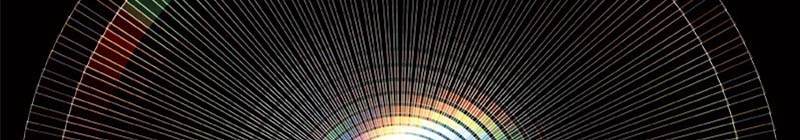
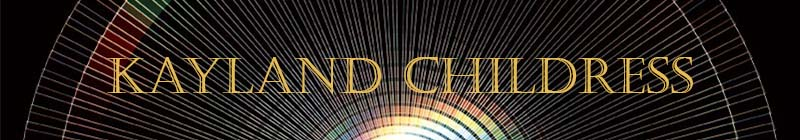
Pre-Assessment Submission

Changed region(s): [[0.125, 0.4, 0.875, 0.6857]]

diff --git a/pre-assessment/index.html b/pre-assessment/index.html
@@ -14,7 +14,7 @@
     <!--A description of the page-->
     <title>IFSC 3342 Pre-Assessment | Kayland Childress</title>
 
-    <link rel="stylesheet" type="text/css" href="assets/css/screen.css" />
+    <link rel="stylesheet" media="all" href="assets/css/screen.css" />
   </head>
   <body>
     <div id="container">
@@ -23,17 +23,31 @@
       </div>
       <div id="nav">
         <ul>
-          <li><a href="http://ualr.edu">UALR</a></li>
           <li>
-            <a href="https://thomaswallace.net/course/mobile-web/spring-2018/"
+            <a href="http://ualr.edu" title="Link to UALR website.">UALR</a>
+          </li>
+          <li>
+            <a
+              href="https://thomaswallace.net/course/mobile-web/spring-2018/"
+              title="Link to course homepage."
               >Course Homepage</a
             >
           </li>
-          <li><a href="http://www.w3.org/">W3C</a></li>
+          <li>
+            <a href="http://www.w3.org/" title="Link to W3C website.">W3C</a>
+          </li>
+          <li>
+            <a
+              href="https://kayland-childress.github.io/Portfolio/"
+              title="Kayland's Portfolio"
+              >Portfolio</a
+            >
+          </li>
         </ul>
       </div>
       <div id="content">
         <h2>My Assessment</h2>
+        <!--Hello Thomas!-->
         <p>
           The most important goal of effective communication is clarity. Clarity
           is not the same as simplicity . Often, simple things are clear if the
@@ -41,7 +55,7 @@
           about a complex relationship that can only be presented with a
           necessarily large amount of data.
         </p>
-        <p>
+        <p class="alert">
           This complexity can be made to appear clear by effective organization
           and presentation and need not be reduced to meaningless "bite-sized"
           chunks of data, as simplification usually does.
@@ -53,6 +67,14 @@
           rather than the illumination of it.
         </p>
         <h3>Questions</h3>
+
+        <p>
+          <img
+            class="xx"
+            alt="The Most Interesting Man in the World"
+            src="assets/img/content-image2.jpg"
+          />
+        </p>
         <p>
           Please answer the following questions below. Remember to markup the
           information properly using HTML
@@ -61,21 +83,44 @@
           Explain the difference between the &quot;alt&quot; attribute and the
           &quot;title&quot; attribute.
         </h4>
-        <p>Answer goes here...</p>
+        <dl>
+          <dt>Alt Attribute:</dt>
+          <dd>
+            The alt attribute is added when images are being displayed on a
+            webpage. This displays a short discription of the image incase the
+            image does not load on the site.
+          </dd>
+          <dt>Title Attribute:</dt>
+          <dd>
+            The title attribute adds a short discription to the viewer when
+            hovering over a hyperlink. This gives them a better idea of where
+            the link will take them if they click on it.
+          </dd>
+        </dl>
         <h4>
           Please provide an example below of how to mark up a definition from
           the dictionary
         </h4>
-        <p>Answer goes here...</p>
+        <dl>
+          <dt>Definition Term</dt>
+          <dd>Blah blah blah blah.</dd>
+        </dl>
         <h4>
-          Provide an example of link pointing to your favorite site &amp; create
-          a style rule to change the background color of the link when the user
-          hovers over it.
+          Provide an example of a link pointing to your favorite site &amp;
+          create a style rule to change the background color of the link when
+          the user hovers over it.
         </h4>
-        <p>Answer goes here...</p>
+        <p>
+          If you are looking for super cute clothes for the low low, check out
+          my favorite website <a href="us.shein.com" id="shein">Shein</a>.
+        </p>
       </div>
       <div id="footer">
-        <h6>Footer</h6>
+        <h6>
+          &copy; 2024 | Kayland Childress |
+          <a href="assets/img/validation.jpg" target="_blank">Validation</a> |
+          <a href="#top">Back to Top</a>
+        </h6>
       </div>
     </div>
   </body>

diff --git a/pre-assessment/assets/css/screen.css b/pre-assessment/assets/css/screen.css
@@ -23,10 +23,15 @@ body {
   margin-top: 20px;
   border: 1px solid #ccc;
 }
-/*  #header {
-}
+
 #header h1 a {
-}   */
+  background-image: url("../resources/assessment-2.jpg");
+  display: block;
+  height: 140px;
+  text-indent: 100%;
+  white-space: nowrap;
+  overflow: hidden;
+}
 #nav {
   background-color: #000;
 }
@@ -65,14 +70,63 @@ body {
   margin-top: 5px;
   margin-bottom: 15px;
 }
+
+.alert {
+  /*background-color: #DCBD62;*/
+  background-color: #d57a5b;
+  color: #53410a;
+}
+
+#content dt {
+  text-decoration: underline;
+  font-style: italic;
+  font-weight: bold;
+}
+
+h2,
+h3 {
+  text-align: center;
+}
+
+h2 {
+  background-color: #d57a5b;
+}
+
+h3 {
+  background-color: #addee5;
+}
+
+h4 {
+  background-color: #afc09c;
+}
+#content #shein {
+  color: #d59ea1;
+}
+
+#content #shein:hover {
+  color: #dcbd62;
+}
+
+.xx {
+  float: right;
+  border: 2px solid #dcbd62;
+  padding: 5px;
+  margin: 20px 0 20px 20px;
+}
+
 #footer {
   background-color: #000;
   color: #fff;
   height: 25px;
 }
+
 #footer h6 {
   font-size: 12px;
   line-height: 25px;
   margin-right: 20px;
   margin-left: 20px;
+}
+
+#footer a {
+  color: white;
 }
